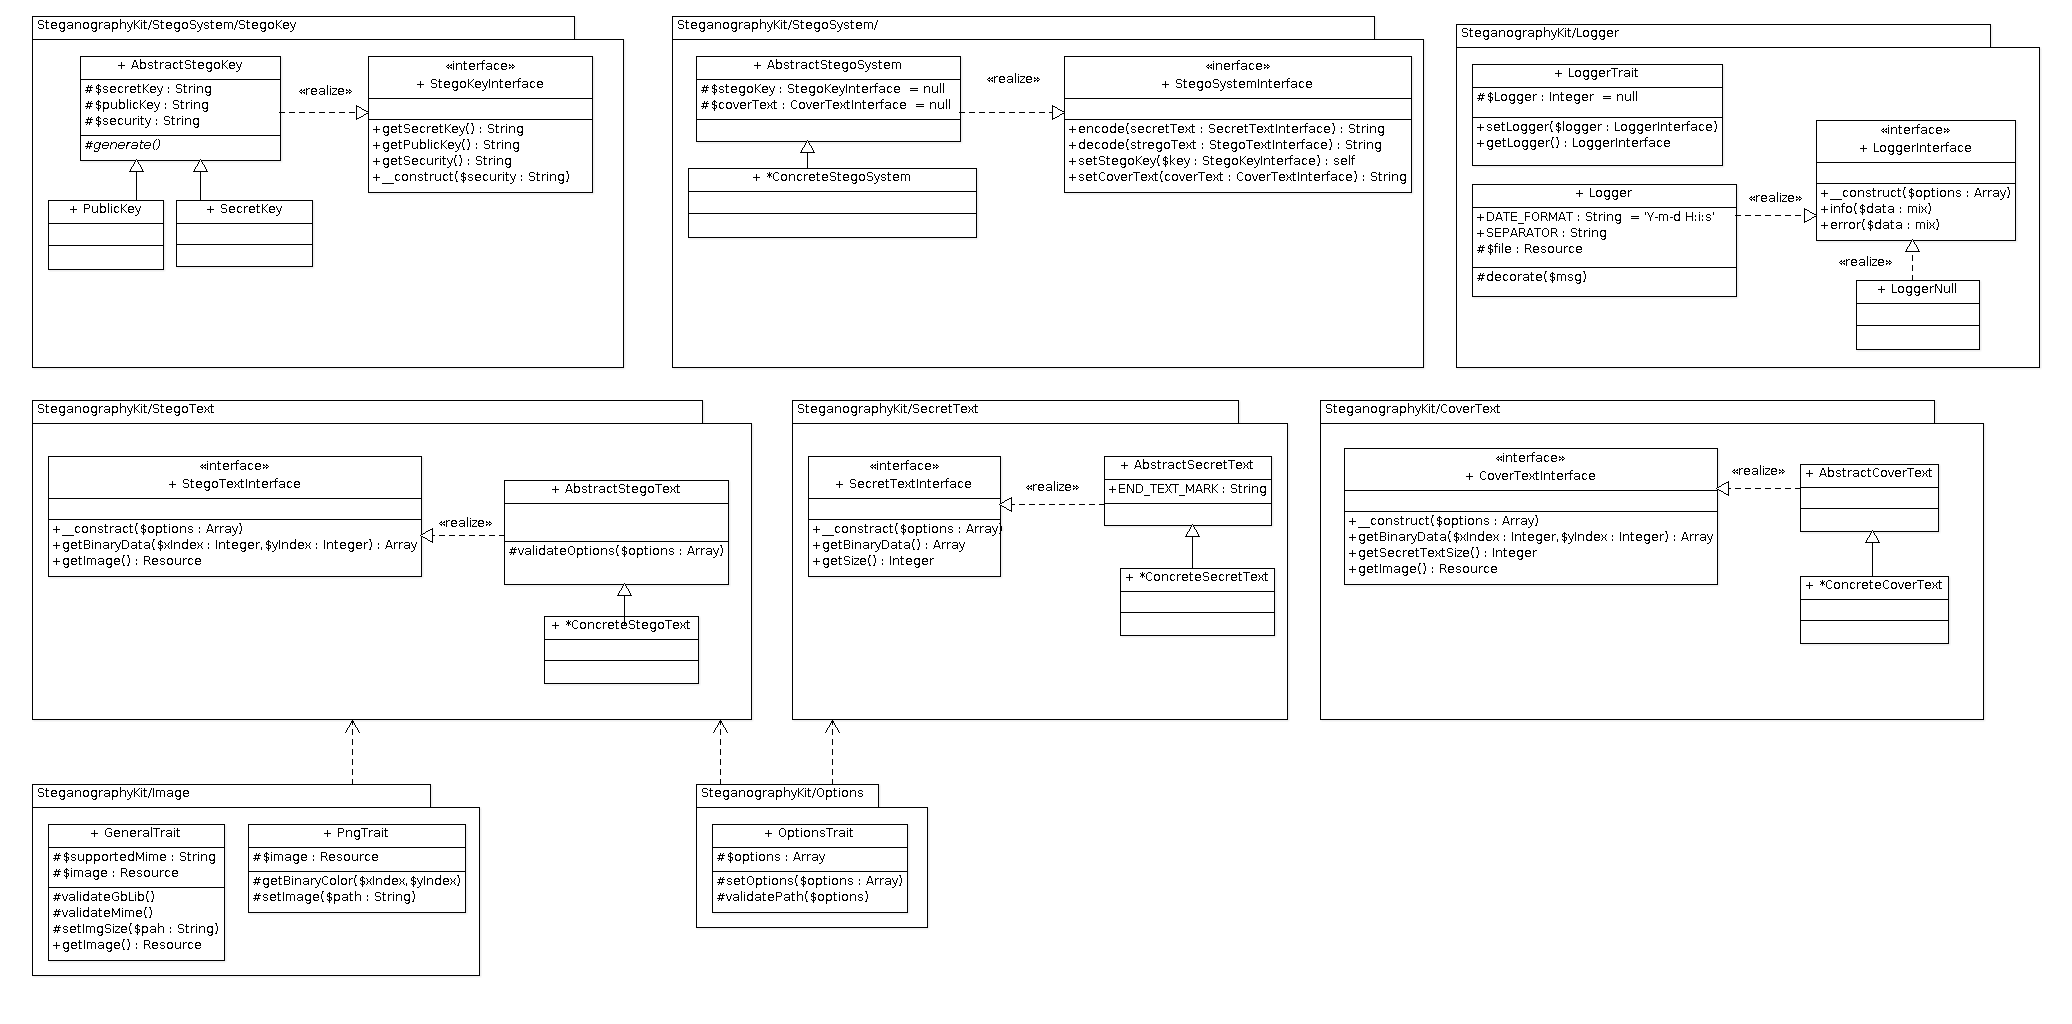
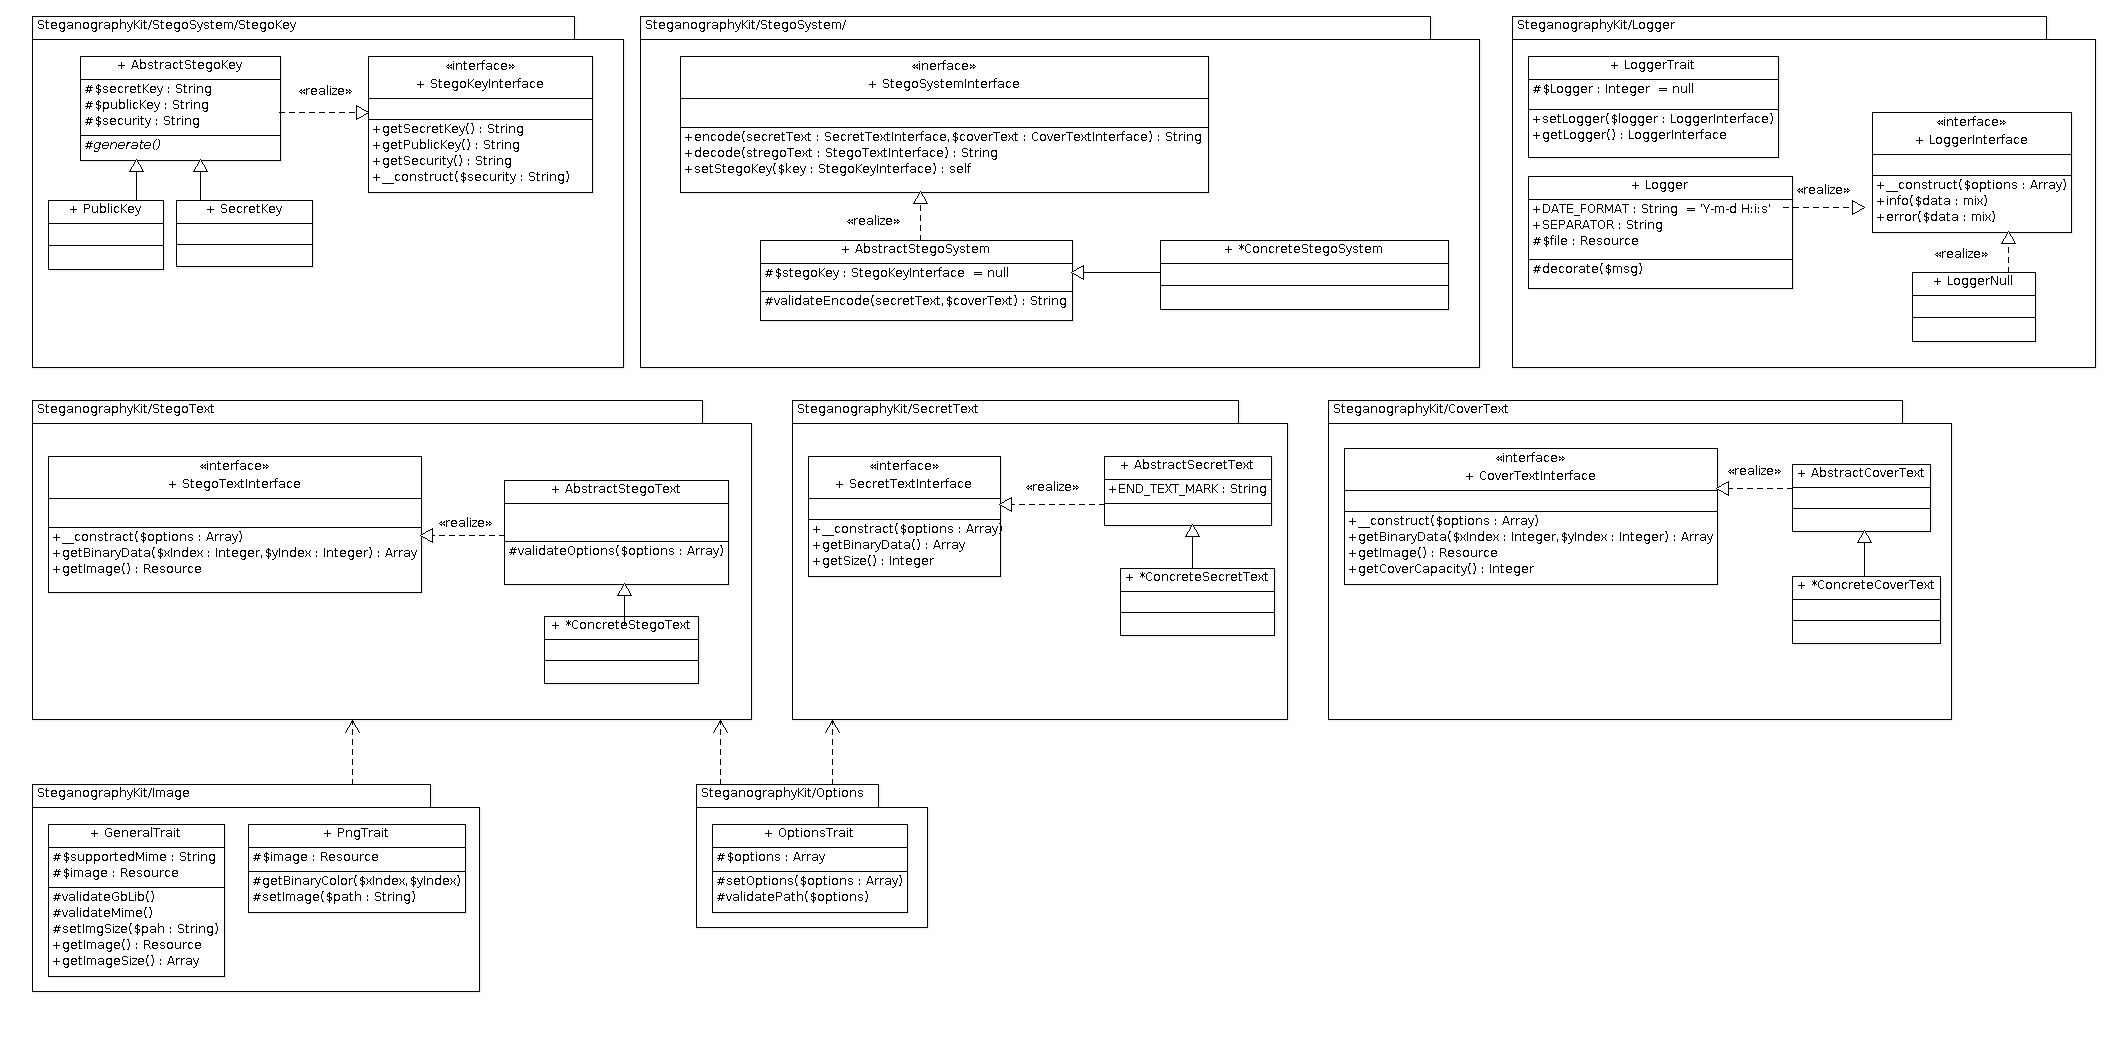
Added CoverText module and StegoSystem module (begin)

diff --git a/src/SteganographyKit/CoverText/PngImg.php b/src/SteganographyKit/CoverText/PngImg.php
@@ -1,0 +1,74 @@
+<?php
+/**
+ * Cover Text - image in png format
+ * 
+ * PNG specification can be found here http://www.w3.org/TR/PNG-Structure.html
+ * 
+ * @link        https://github.com/picamator/SteganographyKit
+ * @license     http://opensource.org/licenses/BSD-3-Clause New BSD License
+ */
+
+namespace SteganographyKit\CoverText;
+use SteganographyKit\Image\PngTrait;
+
+class PngImg extends AbstractStegoText 
+{ 
+    use PngTrait;
+    
+    /**
+     * Options
+     * 
+     * @var array
+     */
+    protected $options = array(
+        'path' => ''
+    );
+    
+    /**
+     * Supported Mime format
+     * 
+     * @var string
+     */
+    protected $supportedMime = 'image/png';
+    
+    /**
+     * @param array $options
+     */
+    public function __construct(array $options) 
+    {
+        parent::__construct($options);
+        
+        $this->validatePath($options);       
+        $this->setOptions($options);
+        
+        $this->setImgSize($options['path']);
+        $this->validateMime();
+        $this->setImage($options['path']);
+    }    
+    
+    /**
+     * Gets converted data to binary format
+     * 
+     * @param integer $xIndex    x coordinat
+     * @param integer $yIndex    y coordinat
+     * @return array contains binary rgb representation of setting dot
+     * <code>
+            array('red' => ..., 'green' => ..., 'blue' => ...);
+     * </code>
+     * @throws Exception
+     */
+    public function getBinaryData($xIndex, $yIndex) 
+    {        
+        return $this->getBinaryColor($xIndex, $yIndex);
+    }
+    
+    /**
+     * Gets how many data coverText can work with
+     * 
+     * @return integer
+     */
+    public function getCoverCapacity() 
+    {
+        return $this->imgSize['width'] * $this->imgSize['height'] * 3;
+    }
+}

diff --git a/src/SteganographyKit/StegoSystem/AbstractStegoSystem.php b/src/SteganographyKit/StegoSystem/AbstractStegoSystem.php
@@ -1,0 +1,33 @@
+<?php
+/**
+ * Abstract for Stego System
+ * 
+ * @link        https://github.com/picamator/SteganographyKit
+ * @license     http://opensource.org/licenses/BSD-3-Clause New BSD License
+ */
+
+namespace SteganographyKit\StegoSystem;
+use SteganographyKit\SecretText\SecretTextInterface;
+use SteganographyKit\StegoText\StegoTextInterface;
+use SteganographyKit\CoverText\CoverTextInterface;
+
+abstract class AbstractStegoSystem implements StegoSystemInterface 
+{
+    /**
+     * Validate is it enouph room into coverText to keep secret one
+     * 
+     * @param   SecretTextInterface $secretText
+     * @param   CoverTextInterface $coverText
+     * @throws  Exception
+     */
+     protected function validateEncode(SecretTextInterface $secretText, 
+        CoverTextInterface $coverText
+    ) {
+         $secretSize = $secretText->getSize();
+         $coverSize  = $coverText->getCoverSize();        
+         if ($secretSize > $coverSize) {
+             throw new Exception('Not enouph room to keep all secretText. CoverText can handle '
+                . $coverSize . ' bytes but SecretTest has ' . $secretSize . ' bytes');
+         }
+    }
+}

diff --git a/src/SteganographyKit/StegoSystem/Lsb.php b/src/SteganographyKit/StegoSystem/Lsb.php
@@ -1,0 +1,44 @@
+<?php
+/**
+ * Stego System LSB
+ * Least Significant Bit
+ * 
+ * @link        https://github.com/picamator/SteganographyKit
+ * @license     http://opensource.org/licenses/BSD-3-Clause New BSD License
+ */
+
+namespace SteganographyKit\StegoSystem;
+use SteganographyKit\SecretText\SecretTextInterface;
+use SteganographyKit\StegoText\StegoTextInterface;
+use SteganographyKit\CoverText\CoverTextInterface;
+
+class Lsb extends AbstractStegoSystem
+{ 
+    /**
+     * Encode secretText
+     * 
+     * @param   SecretTextInterface $secretText
+     * @param   CoverTextInterface  $coverText
+     * @return  string
+     */
+    public function encode(SecretTextInterface $secretText, 
+        CoverTextInterface $coverText
+    ) {
+        // validate
+        $this->validateEncode($secretText, $coverText);
+        
+        // calculate max value of caverText coordinats
+        $imgSize = $coverText->getImageSize();
+    }
+    
+    /**
+     * Decode stegoText
+     * 
+     * @param   StegoTextInterface $stegoText
+     * @return  string
+     */
+    public function decode(StegoTextInterface $stegoText) 
+    {
+        // @TODO
+    }
+}

diff --git a/src/SteganographyKit/StegoSystem/StegoSystemInterface.php b/src/SteganographyKit/StegoSystem/StegoSystemInterface.php
@@ -1,0 +1,33 @@
+<?php
+/**
+ * Interface for Stego System
+ * 
+ * @link        https://github.com/picamator/SteganographyKit
+ * @license     http://opensource.org/licenses/BSD-3-Clause New BSD License
+ */
+
+namespace SteganographyKit\StegoSystem;
+use SteganographyKit\SecretText\SecretTextInterface;
+use SteganographyKit\StegoText\StegoTextInterface;
+use SteganographyKit\CoverText\CoverTextInterface;
+
+interface StegoSystemInterface 
+{
+    /**
+     * Encode secretText
+     * 
+     * @param   SecretTextInterface $secretText
+     * @param   CoverTextInterface  $coverText
+     * @return  string
+     */
+    public function encode(SecretTextInterface $secretText, 
+        CoverTextInterface $coverText);
+    
+    /**
+     * Decode stegoText
+     * 
+     * @param   StegoTextInterface $stegoText
+     * @return  string
+     */
+    public function decode(StegoTextInterface $stegoText);
+}

diff --git a/src/SteganographyKit/CoverText/CoverTextInterface.php b/src/SteganographyKit/CoverText/CoverTextInterface.php
@@ -1,14 +1,14 @@
 <?php
 /**
- * Interface for Stego Text (cover text woth embeded secret text)
+ * Interface for Cover Text (cover image)
  * 
  * @link        https://github.com/picamator/SteganographyKit
  * @license     http://opensource.org/licenses/BSD-3-Clause New BSD License
  */
 
-namespace SteganographyKit\StegoText;
+namespace SteganographyKit\CoverText;
 
-interface StegoTextInterface 
+interface CoverTextInterface 
 {
     /**
      * @param array $options
@@ -34,4 +34,11 @@ interface StegoTextInterface
      * @return resource
      */
     public function getImage();
+    
+    /**
+     * Gets how many data coverText can work with
+     * 
+     * @return integer
+     */
+    public function getCoverCapacity();
 }

diff --git a/src/SteganographyKit/CoverText/AbstractCoverText.php b/src/SteganographyKit/CoverText/AbstractCoverText.php
@@ -1,0 +1,24 @@
+<?php
+/**
+ * Abstract for Cover Text
+ * 
+ * @link        https://github.com/picamator/SteganographyKit
+ * @license     http://opensource.org/licenses/BSD-3-Clause New BSD License
+ */
+
+namespace SteganographyKit\CoverText;
+use SteganographyKit\Options\OptionsTrait;
+use SteganographyKit\Image\GeneralTrait;
+
+abstract class AbstractCoverText implements StegoTextInterface 
+{
+    use OptionsTrait, GeneralTrait;
+
+    /**
+     * @param array $options
+     */
+    public function __construct(array $options) 
+    {
+        $this->validateGbLib();
+    }
+}

diff --git a/src/SteganographyKit/CoverText/Exception.php b/src/SteganographyKit/CoverText/Exception.php
@@ -1,0 +1,15 @@
+<?php
+/**
+ * CoverText Exception
+ * 
+ * @link        https://github.com/picamator/SteganographyKit
+ * @license     http://opensource.org/licenses/BSD-3-Clause New BSD License
+ */
+
+namespace SteganographyKit\CoverText;
+use SteganographyKit\Exception;
+
+class Exception extends Exception 
+{
+    
+}

diff --git a/src/SteganographyKit/Image/GeneralTrait.php b/src/SteganographyKit/Image/GeneralTrait.php
@@ -59,6 +59,16 @@ trait GeneralTrait
     }
     
     /**
+     * Gets image size
+     * 
+     * @return array
+     */
+    public function getImageSize()
+    {
+        return $this->imgSize;
+    }        
+    
+    /**
      * Sets image size
      * 
      * @param string $path
